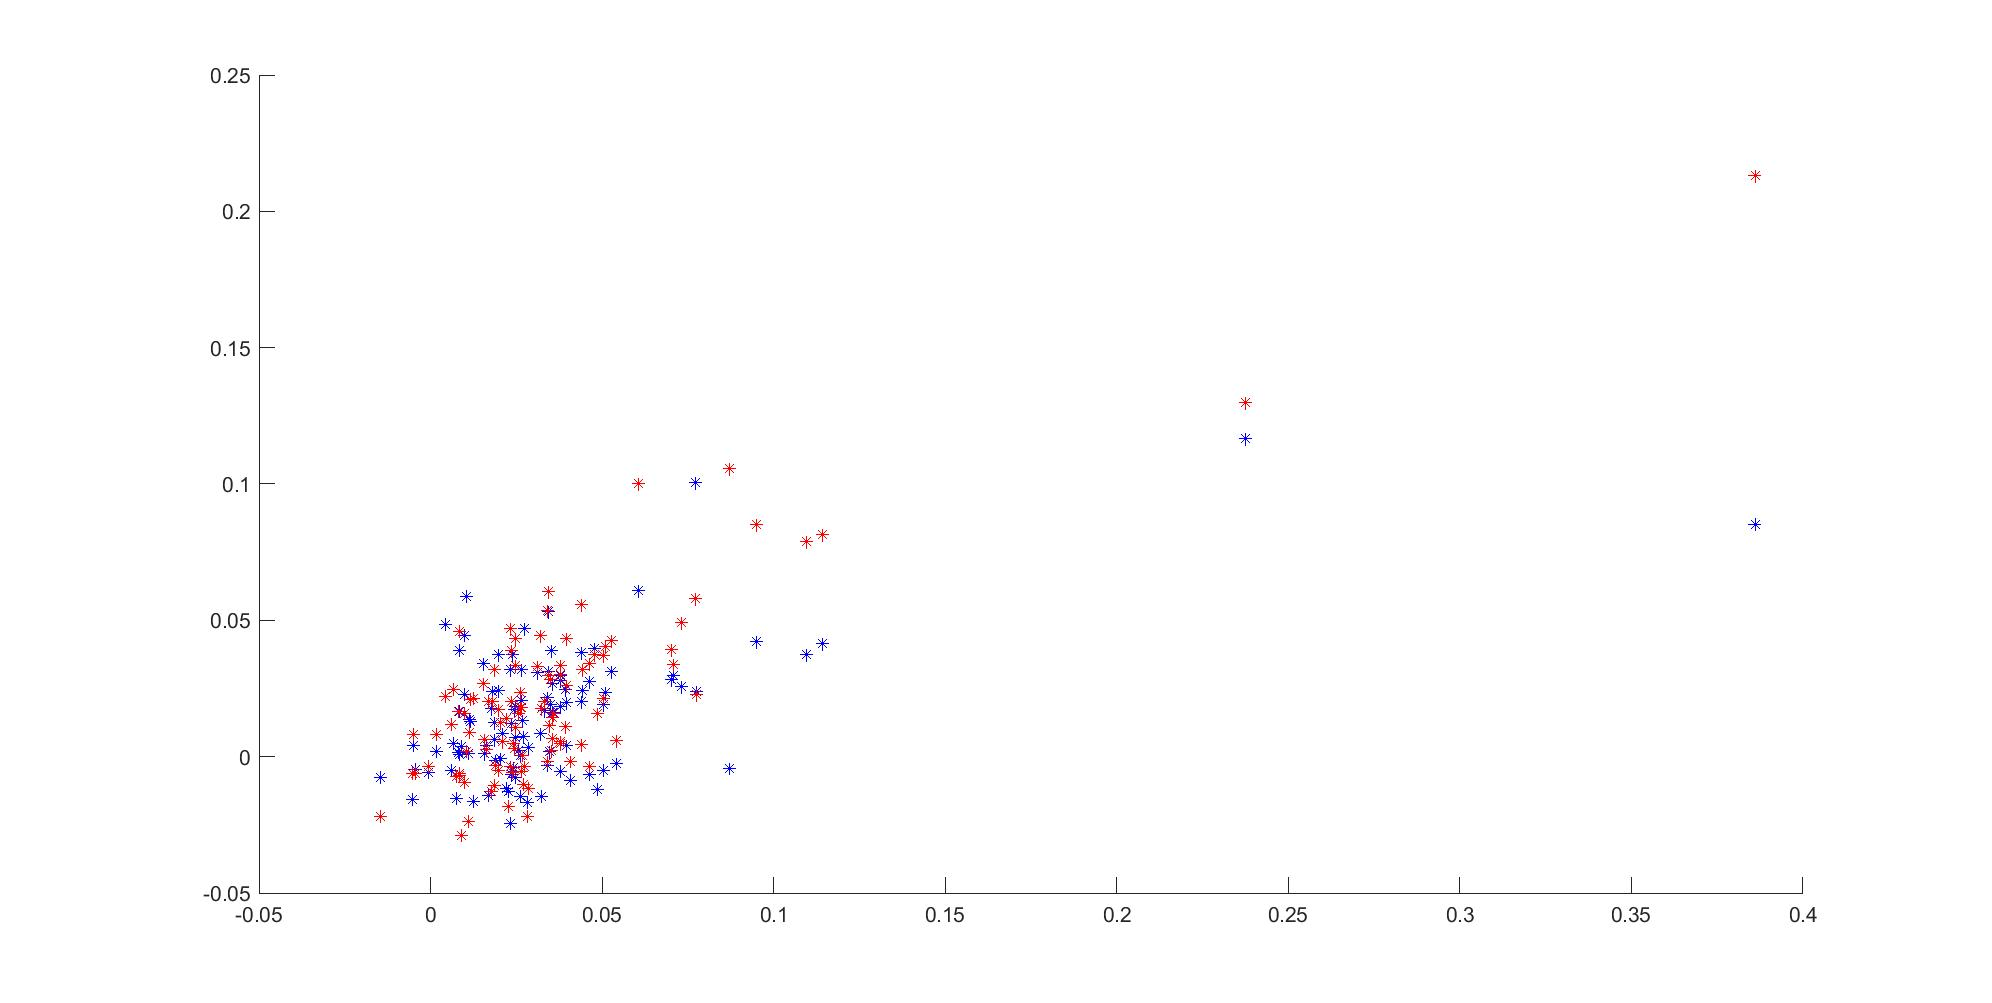
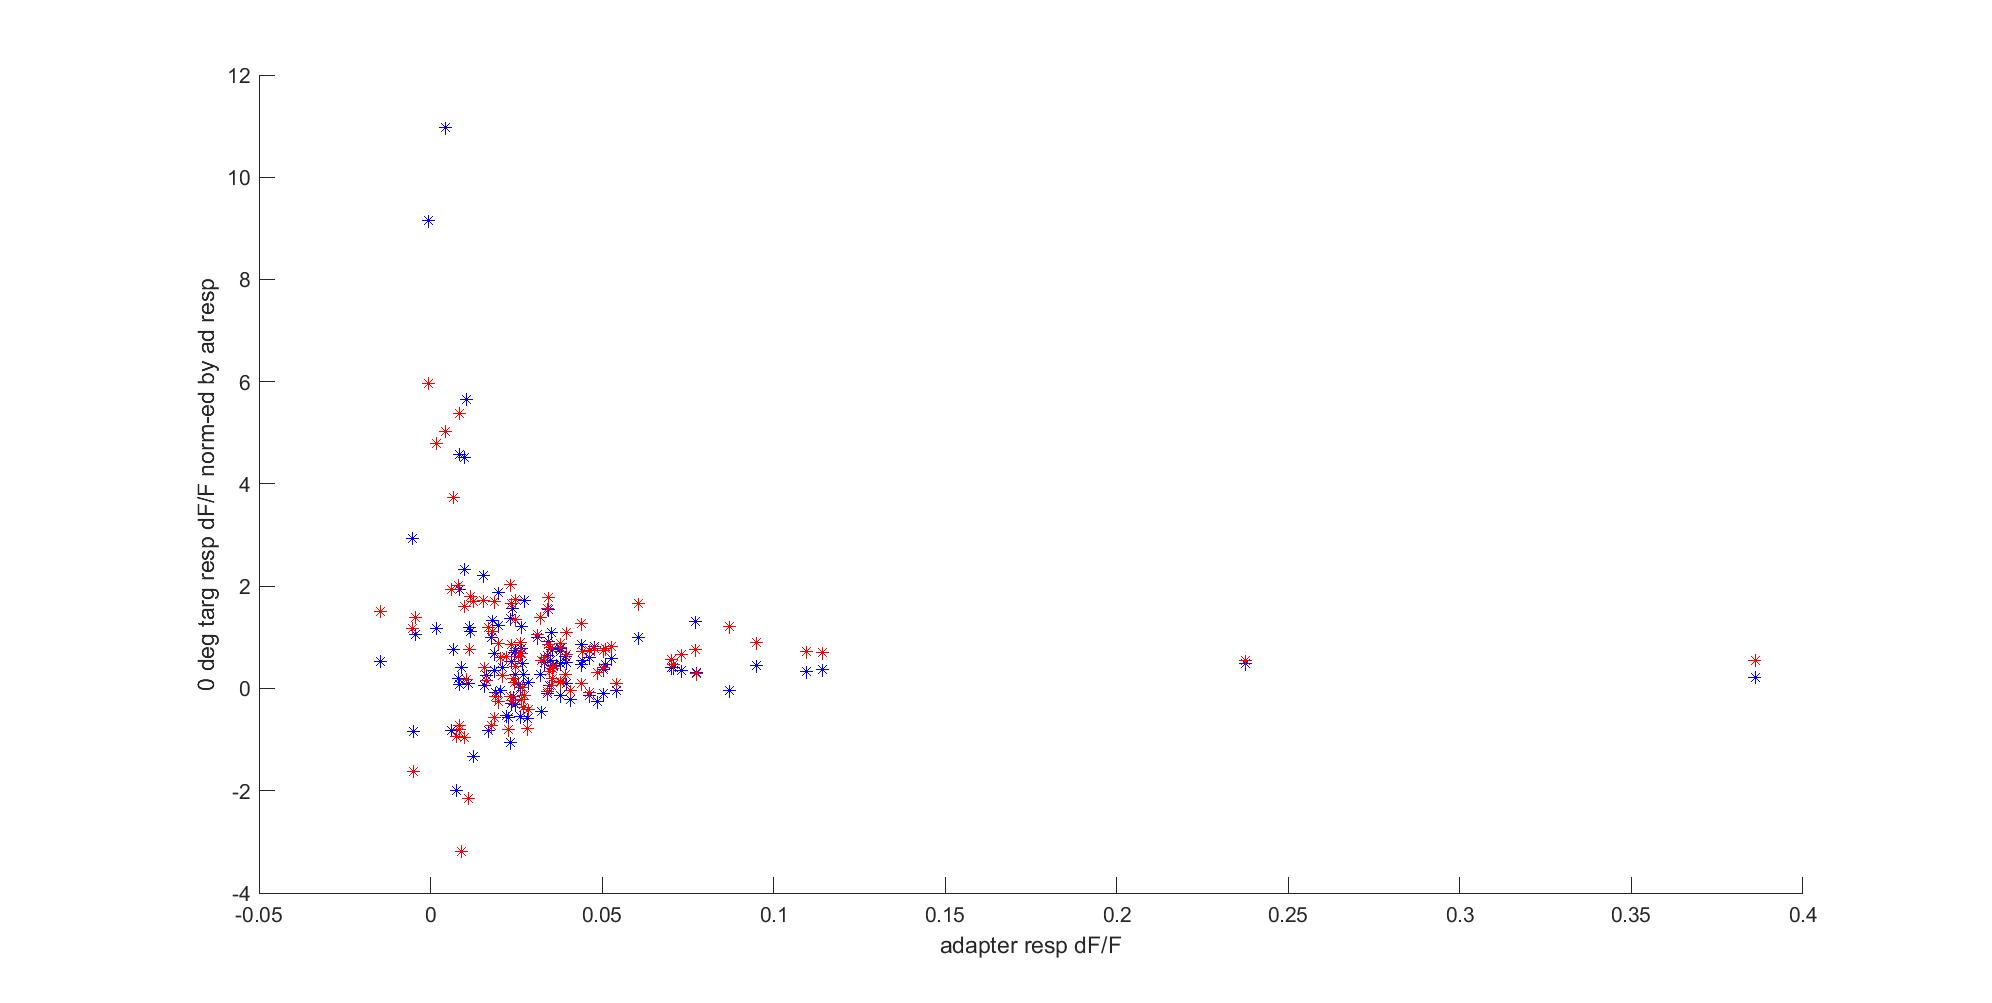
fig 1E debug. fig 1C approx version

diff --git a/code/200720_i1323/adaptation_V1.m b/code/200720_i1323/adaptation_V1.m
@@ -40,6 +40,10 @@ load([tc_name, '\', datemouserun, '_TCs_addfake.mat']); % load time course inclu
 
 cd C:\Users\lan\Documents\repos\inter\code\200720_i1323
 
+load ori_across_cells.mat
+load ori_across_bootstrap_runs_with_replace.mat
+load no_ad_targ_resp.mat
+
 %% exp design
 
 ntrial = input.trialSinceReset; % 464 = 8 dir * 2 adapter contrast * 2 ISI * 14.5 reps
@@ -197,48 +201,110 @@ cd C:\Users\lan\Documents\repos\inter\code
 % close
 % save with_ad_0deg_targ_resp.mat dfof_avg_tg0 dfof_ste_tg0 cp_win_tg0 base_avg_tg0 resp_avg_tg0 resp_ste_tg0 sig_ttest_tg0 p_ttest_tg0
 
-%% compare ad_resp vs 0-deg targ_resp_250/750 of vis_driven cells
+%% evaluate best cells
+
+nrun=1000;
+ori_closeness = sort(abs(ori_pref_runs - ori_pref_cells), 2); % sort each row aka cell
+percentile_threshold = 0.90;
+percentile_idx = percentile_threshold * nrun;
+ori_perc = ori_closeness(:, percentile_idx);
+% sum(ori_perc<22.5) / length(ori_perc)
+% histogram(ori_perc,8)
+
+good_fit_cell = ori_perc<22.5;
+sum(good_fit_cell)
+sig_vis_cell = sum(sig_ttest,2)>0; % sig vis-driven by no-ad targ
+sum(sig_vis_cell)
+ori_cell = good_fit_cell & sig_vis_cell;
+sum(ori_cell)
+
+sharp_cell = fit_param(:, 3) > 3;
+real_ori_cell = ori_cell & sharp_cell;
+real_ori_cell_list = find(real_ori_cell);
+ncell_real_ori = length(real_ori_cell_list)
+
+%% Fig 1E: compare ad_resp vs 0-deg targ_resp_250/750 of vis_driven cells
 
 id_isi_1 = intersect(find(cTarget - cStimOff < 10), id_adapter); % isi 250
 id_isi_2 = intersect(find(cTarget - cStimOff >= 10), id_adapter); % isi 750
 % use all cells
 figure
-scatter(dfof_avg_ad, dfof_avg_tg0(:,1), 'b*'); hold on % isi 250
-scatter(dfof_avg_ad, dfof_avg_tg0(:,2), 'r*') % isi 750
+scatter(dfof_avg_ad, dfof_avg_tg0(:,1)./dfof_avg_ad, 'b*'); hold on % isi 250
+scatter(dfof_avg_ad, dfof_avg_tg0(:,2)./dfof_avg_ad, 'r*') % isi 750
+yl = ylim; % query [ymin ymax]
+% ylim([0, yl(2)])
+% ylim([0, 2.5])
+xlabel('adapter resp dF/F')
+ylabel('0 deg targ resp dF/F norm-ed by ad resp')
 set(gcf, 'Position', get(0, 'Screensize'));
 saveas(gcf, ['Fig1E all cells.jpg'])
 close
 
 % use only 0-preferring cells. other cells' ad & tg resp will certainly co-vary
-load ori_across_cells.mat
-pref_0_cell = find(ori_pref_cells > delta_list(end-1));
+% pref_0_cell = find(ori_pref_cells > delta_list(end-1));
+pref_0_cell = find(ori_pref_cells > (delta_list(end-1) + delta_list(end))/2 | ori_pref_cells < delta_list(1)/2);
+pref_0_cell = pref_0_cell( dfof_avg_tg0(pref_0_cell,1)>0 & dfof_avg_tg0(pref_0_cell,2)>0);
 % pref_0_cell = find(ori_pref_cells > 170);
 figure
 subplot(1,2,1)
-scatter(dfof_avg_ad(pref_0_cell), dfof_avg_tg0(pref_0_cell,1), 'b*'); hold on
+scatter(dfof_avg_ad(pref_0_cell), dfof_avg_tg0(pref_0_cell,1)./dfof_avg_ad(pref_0_cell), 'b*'); hold on
 title('isi=250')
 subplot(1,2,2)
-scatter(dfof_avg_ad(pref_0_cell), dfof_avg_tg0(pref_0_cell,2), 'r*')
+scatter(dfof_avg_ad(pref_0_cell), dfof_avg_tg0(pref_0_cell,2)./dfof_avg_ad(pref_0_cell), 'r*')
 title('isi=750')
-for n=1:2
-AX_handles(n) = subplot(1,2,n)
-end
-set(AX_handles,'YLim',[-0.04 0.14])
+% for n=1:2
+% AX_handles(n) = subplot(1,2,n)
+% end
+% set(AX_handles,'YLim',[-0.04 0.14])
 set(gcf, 'Position', get(0, 'Screensize'));
 saveas(gcf, ['Fig1E cells prefer 0 deg.jpg'])
 close
 
-% bin cells by adapter resp
-[count_bin, idx] = histc(dfof_avg_ad(vis_driven_ad),floor(min(dfof_avg_ad(vis_driven_ad))):0.05:ceil(max(dfof_avg_ad(vis_driven_ad))*10)/10);
+% bin all cells by adapter resp
+[count_bin, idx] = histc(dfof_avg_ad(vis_driven_ad),0:0.05:ceil(max(dfof_avg_ad(vis_driven_ad))*10)/10);
 % histogram(dfof_avg_ad(vis_driven_ad))
 resp_bin_ad = accumarray(idx(:),dfof_avg_ad(vis_driven_ad),[],@mean)
+resp_bin_tg = [];
 resp_bin_tg(:,1) = accumarray(idx(:),dfof_avg_tg0(vis_driven_ad,1),[],@mean);
 resp_bin_tg(:,2) = accumarray(idx(:),dfof_avg_tg0(vis_driven_ad,2),[],@mean)
 
 figure
-scatter(resp_bin_ad, resp_bin_tg(:,1), 'b*'); hold on 
-scatter(resp_bin_ad, resp_bin_tg(:,2), 'r*')
+scatter(resp_bin_ad, resp_bin_tg(:,1)./resp_bin_ad, 'b*'); hold on 
+scatter(resp_bin_ad, resp_bin_tg(:,2)./resp_bin_ad, 'r*')
+ylim([0,1])
+set(gcf, 'Position', get(0, 'Screensize'));
+saveas(gcf, ['Fig1E all cells binned by ad-resp.jpg'])
+close
+
+% bin 0-deg preferring cells by ad resp
+[count_bin, idx] = histc(dfof_avg_ad(pref_0_cell), 0:0.05:ceil(max(dfof_avg_ad(pref_0_cell))*10)/10);
+% histogram(dfof_avg_ad(pref_0_cell))
+resp_bin_ad = accumarray(idx(:),dfof_avg_ad(pref_0_cell),[],@mean)
+resp_bin_tg = [];
+resp_bin_tg(:,1) = accumarray(idx(:),dfof_avg_tg0(pref_0_cell,1),[],@mean);
+resp_bin_tg(:,2) = accumarray(idx(:),dfof_avg_tg0(pref_0_cell,2),[],@mean)
+
+figure
+scatter(resp_bin_ad, resp_bin_tg(:,1)./resp_bin_ad, 'b*'); hold on 
+scatter(resp_bin_ad, resp_bin_tg(:,2)./resp_bin_ad, 'r*')
+ylim([0,1])
 set(gcf, 'Position', get(0, 'Screensize'));
 saveas(gcf, ['Fig1E cells prefer 0 deg binned by ad-resp.jpg'])
 close
 
+%% Fig 1C (approx): time course of adaptation recovery for all cells
+
+% histogram(dfof_avg_tg0(:,1)./dfof_avg_ad)% isi 250
+% hold on
+% histogram(dfof_avg_tg0(:,2)./dfof_avg_ad)
+
+isi_list = [0.250, 0.750, 4];
+norm_targ_resp_list = [median((dfof_avg_tg0(:,1)./dfof_avg_ad)), median(dfof_avg_tg0(:,2)./dfof_avg_ad), 1];
+scatter(isi_list, norm_targ_resp_list)
+hold on
+f = fit(isi_list',norm_targ_resp_list','exp1')
+plot(f,isi_list',norm_targ_resp_list')
+xlim([0,4])
+ylim([0,1])
+
+%% Fig 2
